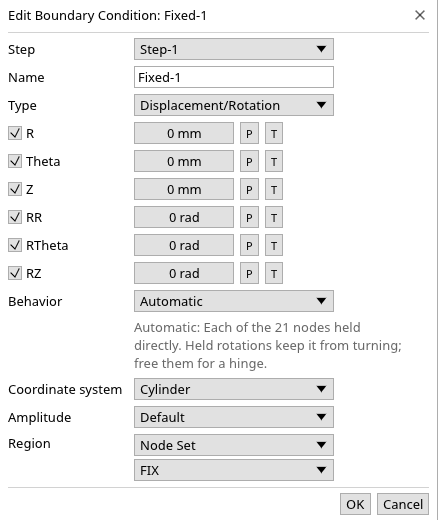
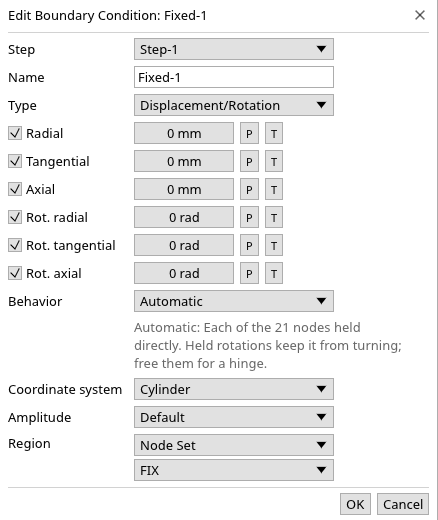
Name cylindrical directions Radial, Tangential, Axial instead of R, Theta, Z
Theta reads as an angle; the components are directions.

Claude-Session: https://claude.ai/code/session_0117wmBM3x2gWuVmQxWxbpPb

diff --git a/crates/plx-app/src/setup.rs b/crates/plx-app/src/setup.rs
@@ -1611,7 +1611,7 @@ fn direction_rows(
         .is_some_and(|s| s.kind == plx_model::CoordinateSystemKind::Cylindrical);
     if cylindrical {
         ui.label("");
-        ui.weak("R, Theta, Z are the radial, tangential and axial directions at every node.");
+        ui.weak("Radial, tangential and axial are the directions at every node.");
         ui.end_row();
     }
     if fe.system_attachment(*system).is_some() {
@@ -2047,7 +2047,7 @@ fn submodel_source_lines(
 }
 
 /// The names of the directions of a coordinate system in dialogs: X, Y, Z of a rectangular
-/// system, R, Theta, Z (radial, tangential, axial) of a cylindrical one. Only for display:
+/// system, Radial, Tangential, Axial of a cylindrical one. Only for display:
 /// the model keeps the components 1, 2, 3.
 #[derive(Clone, Copy, Debug, PartialEq, Eq)]
 pub(crate) struct Directions {
@@ -2068,7 +2068,14 @@ impl Directions {
     /// The displacements along the three directions and the rotations about them.
     pub(crate) fn dofs(self) -> [&'static str; 6] {
         if self.cylindrical {
-            ["R", "Theta", "Z", "RR", "RTheta", "RZ"]
+            [
+                "Radial",
+                "Tangential",
+                "Axial",
+                "Rot. radial",
+                "Rot. tangential",
+                "Rot. axial",
+            ]
         } else {
             ["X", "Y", "Z", "RX", "RY", "RZ"]
         }
@@ -2077,7 +2084,7 @@ impl Directions {
     /// The force components along the three directions.
     pub(crate) fn forces(self) -> [&'static str; 3] {
         if self.cylindrical {
-            ["FR", "FTheta", "FZ"]
+            ["F radial", "F tangential", "F axial"]
         } else {
             ["FX", "FY", "FZ"]
         }
@@ -2086,7 +2093,7 @@ impl Directions {
     /// The moment components about the three directions.
     pub(crate) fn moments(self) -> [&'static str; 3] {
         if self.cylindrical {
-            ["MR", "MTheta", "MZ"]
+            ["M radial", "M tangential", "M axial"]
         } else {
             ["MX", "MY", "MZ"]
         }
